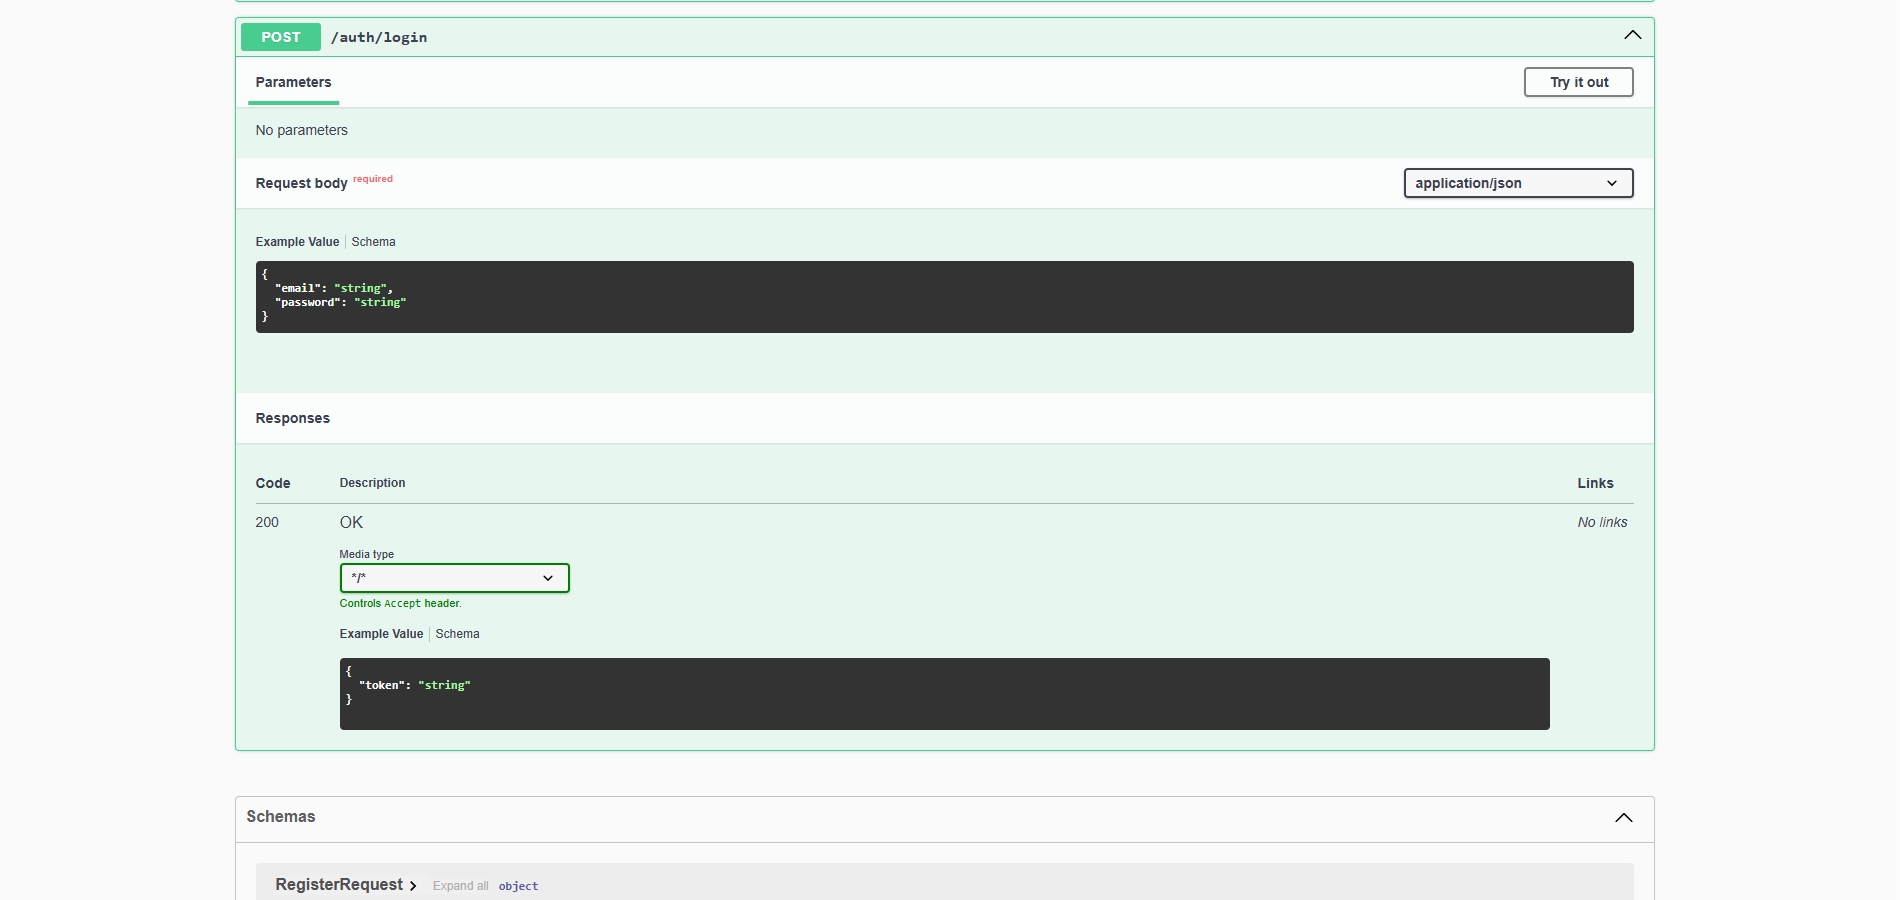
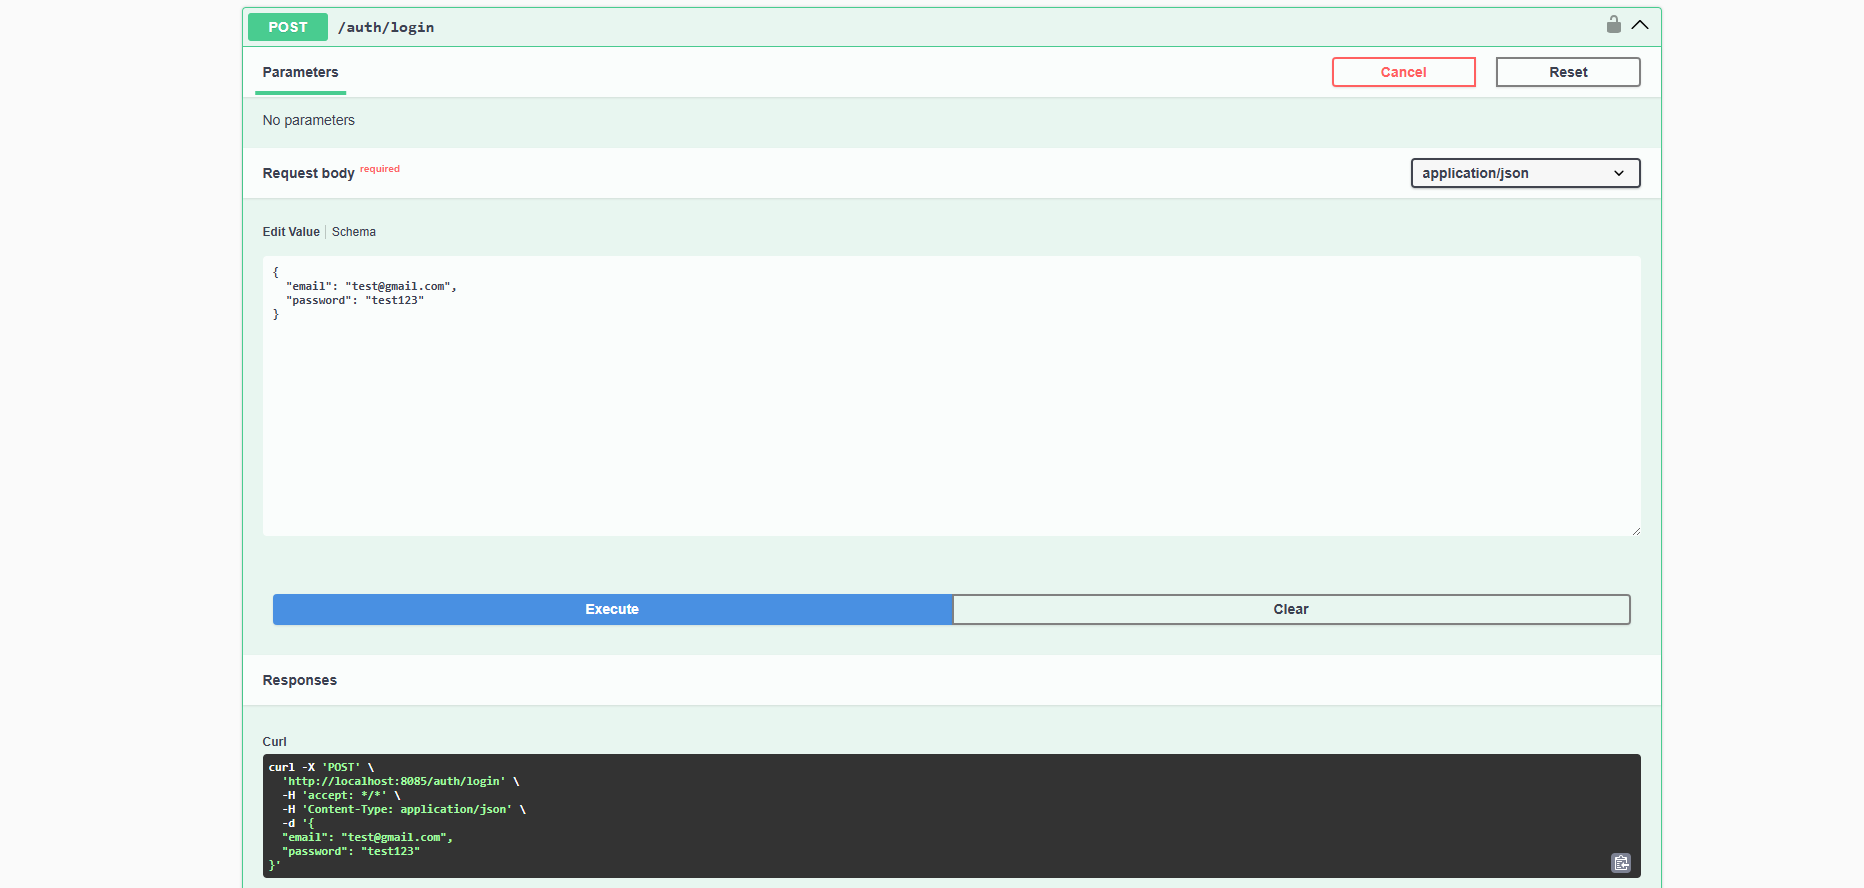
Implemented JWT authentication middleware and protected APIs

diff --git a/src/main/java/com/enterpriseauthstarter/config/SecurityConfig.java b/src/main/java/com/enterpriseauthstarter/config/SecurityConfig.java
@@ -1,14 +1,27 @@
 package com.enterpriseauthstarter.config;
 
+import com.enterpriseauthstarter.auth.security.CustomUserDetailsService;
+import com.enterpriseauthstarter.auth.security.JwtAuthenticationFilter;
+import lombok.RequiredArgsConstructor;
 import org.springframework.context.annotation.Bean;
 import org.springframework.context.annotation.Configuration;
+import org.springframework.security.authentication.AuthenticationProvider;
+import org.springframework.security.authentication.dao.DaoAuthenticationProvider;
 import org.springframework.security.config.annotation.web.builders.HttpSecurity;
-import org.springframework.security.web.SecurityFilterChain;
+import org.springframework.security.config.annotation.web.configuration.EnableWebSecurity;
+import org.springframework.security.config.http.SessionCreationPolicy;
 import org.springframework.security.crypto.bcrypt.BCryptPasswordEncoder;
 import org.springframework.security.crypto.password.PasswordEncoder;
+import org.springframework.security.web.SecurityFilterChain;
+import org.springframework.security.web.authentication.UsernamePasswordAuthenticationFilter;
 
 @Configuration
+@EnableWebSecurity
+@RequiredArgsConstructor
 public class SecurityConfig {
+
+    private final JwtAuthenticationFilter jwtAuthenticationFilter;
+    private final CustomUserDetailsService userDetailsService;
 
     @Bean
     public PasswordEncoder passwordEncoder() {
@@ -16,19 +29,41 @@ public class SecurityConfig {
     }
 
     @Bean
-    public SecurityFilterChain securityFilterChain(HttpSecurity http) throws Exception {
+    public AuthenticationProvider authenticationProvider() {
+
+        DaoAuthenticationProvider authProvider =
+                new DaoAuthenticationProvider();
+
+        authProvider.setUserDetailsService(userDetailsService);
+        authProvider.setPasswordEncoder(passwordEncoder());
+
+        return authProvider;
+    }
+
+    @Bean
+    public SecurityFilterChain securityFilterChain(HttpSecurity http)
+            throws Exception {
 
         http
                 .csrf(csrf -> csrf.disable())
+                .sessionManagement(session ->
+                        session.sessionCreationPolicy(SessionCreationPolicy.STATELESS)
+                )
                 .authorizeHttpRequests(auth -> auth
                         .requestMatchers(
                                 "/auth/**",
                                 "/swagger-ui/**",
                                 "/swagger-ui.html",
                                 "/v3/api-docs/**"
-                        ).permitAll()
+                        )
+                        .permitAll()
                         .anyRequest()
                         .authenticated()
+                )
+                .authenticationProvider(authenticationProvider())
+                .addFilterBefore(
+                        jwtAuthenticationFilter,
+                        UsernamePasswordAuthenticationFilter.class
                 );
 
         return http.build();

diff --git a/src/main/java/com/enterpriseauthstarter/auth/security/JwtAuthenticationFilter.java b/src/main/java/com/enterpriseauthstarter/auth/security/JwtAuthenticationFilter.java
@@ -1,0 +1,68 @@
+package com.enterpriseauthstarter.auth.security;
+
+import jakarta.servlet.FilterChain;
+import jakarta.servlet.ServletException;
+import jakarta.servlet.http.*;
+import lombok.RequiredArgsConstructor;
+import org.springframework.security.authentication.UsernamePasswordAuthenticationToken;
+import org.springframework.security.core.context.SecurityContextHolder;
+import org.springframework.security.core.userdetails.UserDetails;
+import org.springframework.security.web.authentication.WebAuthenticationDetailsSource;
+import org.springframework.stereotype.Component;
+import org.springframework.web.filter.OncePerRequestFilter;
+
+import java.io.IOException;
+
+@Component
+@RequiredArgsConstructor
+public class JwtAuthenticationFilter extends OncePerRequestFilter {
+
+    private final JwtUtil jwtUtil;
+    private final CustomUserDetailsService userDetailsService;
+
+    @Override
+    protected void doFilterInternal(
+            HttpServletRequest request,
+            HttpServletResponse response,
+            FilterChain filterChain
+    ) throws ServletException, IOException {
+
+        final String authHeader = request.getHeader("Authorization");
+
+        if (authHeader == null || !authHeader.startsWith("Bearer ")) {
+            filterChain.doFilter(request, response);
+            return;
+        }
+
+        String token = authHeader.substring(7);
+
+        String email = jwtUtil.extractEmail(token);
+
+        if (email != null &&
+                SecurityContextHolder.getContext().getAuthentication() == null) {
+
+            UserDetails userDetails =
+                    userDetailsService.loadUserByUsername(email);
+
+            if (jwtUtil.isTokenValid(token, email)) {
+
+                UsernamePasswordAuthenticationToken authToken =
+                        new UsernamePasswordAuthenticationToken(
+                                userDetails,
+                                null,
+                                userDetails.getAuthorities()
+                        );
+
+                authToken.setDetails(
+                        new WebAuthenticationDetailsSource()
+                                .buildDetails(request)
+                );
+
+                SecurityContextHolder.getContext()
+                        .setAuthentication(authToken);
+            }
+        }
+
+        filterChain.doFilter(request, response);
+    }
+}

diff --git a/src/main/java/com/enterpriseauthstarter/config/SwaggerConfig.java b/src/main/java/com/enterpriseauthstarter/config/SwaggerConfig.java
@@ -1,0 +1,37 @@
+package com.enterpriseauthstarter.config;
+
+import io.swagger.v3.oas.models.Components;
+import io.swagger.v3.oas.models.OpenAPI;
+import io.swagger.v3.oas.models.info.Info;
+import io.swagger.v3.oas.models.security.*;
+import org.springframework.context.annotation.Bean;
+import org.springframework.context.annotation.Configuration;
+
+@Configuration
+public class SwaggerConfig {
+
+    @Bean
+    public OpenAPI customOpenAPI() {
+
+        final String securitySchemeName = "bearerAuth";
+
+        return new OpenAPI()
+                .info(new Info()
+                        .title("EnterpriseAuth Starter API")
+                        .version("1.0")
+                        .description("Production-Ready JWT Authentication Starter")
+                )
+                .addSecurityItem(new SecurityRequirement()
+                        .addList(securitySchemeName))
+                .components(new Components()
+                        .addSecuritySchemes(
+                                securitySchemeName,
+                                new SecurityScheme()
+                                        .name(securitySchemeName)
+                                        .type(SecurityScheme.Type.HTTP)
+                                        .scheme("bearer")
+                                        .bearerFormat("JWT")
+                        )
+                );
+    }
+}

diff --git a/src/main/java/com/enterpriseauthstarter/auth/security/CustomUserDetailsService.java b/src/main/java/com/enterpriseauthstarter/auth/security/CustomUserDetailsService.java
@@ -1,0 +1,32 @@
+package com.enterpriseauthstarter.auth.security;
+
+import com.enterpriseauthstarter.auth.entity.User;
+import com.enterpriseauthstarter.auth.repository.UserRepository;
+import lombok.RequiredArgsConstructor;
+import org.springframework.security.core.authority.SimpleGrantedAuthority;
+import org.springframework.security.core.userdetails.*;
+import org.springframework.stereotype.Service;
+
+import java.util.List;
+
+@Service
+@RequiredArgsConstructor
+public class CustomUserDetailsService implements UserDetailsService {
+
+    private final UserRepository userRepository;
+
+    @Override
+    public UserDetails loadUserByUsername(String email)
+            throws UsernameNotFoundException {
+
+        User user = userRepository.findByEmail(email)
+                .orElseThrow(() ->
+                        new UsernameNotFoundException("User not found"));
+
+        return new org.springframework.security.core.userdetails.User(
+                user.getEmail(),
+                user.getPassword(),
+                List.of(new SimpleGrantedAuthority(user.getRole().name()))
+        );
+    }
+}

diff --git a/src/main/java/com/enterpriseauthstarter/user/controller/UserController.java b/src/main/java/com/enterpriseauthstarter/user/controller/UserController.java
@@ -1,0 +1,15 @@
+package com.enterpriseauthstarter.user.controller;
+
+import org.springframework.security.core.Authentication;
+import org.springframework.web.bind.annotation.*;
+
+@RestController
+@RequestMapping("/users")
+public class UserController {
+
+    @GetMapping("/me")
+    public String currentUser(Authentication authentication) {
+
+        return "Logged in user: " + authentication.getName();
+    }
+}
